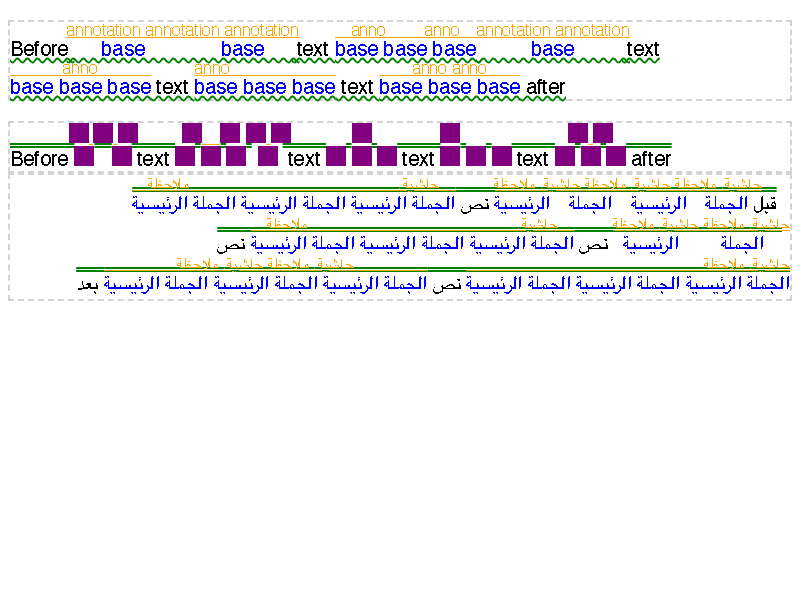
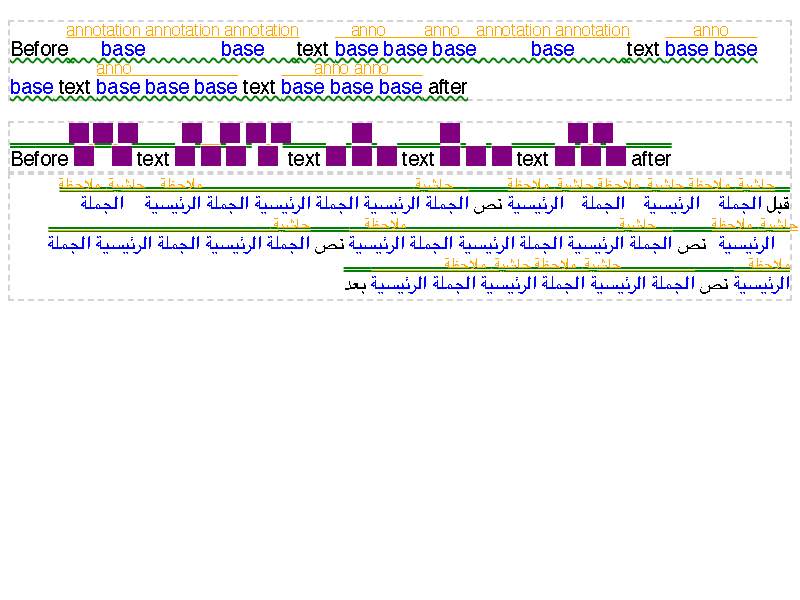
RubyLB: Make ruby columns breakable
If a ruby columns is not monolithic and its intrinsic inline size is
larger than line's available size, we try to break inside the ruby
column.  We provide RubyBreakTokenData if it succeeds.

Bug: 324111880
Auto-Submit: Kent Tamura <tkent@chromium.org>
Commit-Queue: Koji Ishii <kojii@chromium.org>
Cr-Commit-Position: refs/heads/main@{#1302421}
NOKEYCHECK=True
GitOrigin-RevId: 1786fbc1466286e500b3c1f102b4b1b86c3787eb

diff --git a/blink/web_tests/external/wpt/css/css-ruby/break-within-bases/basic.html b/blink/web_tests/external/wpt/css/css-ruby/break-within-bases/basic.html
@@ -1,0 +1,18 @@
+<!DOCTYPE html>
+<link rel="help" href="https://drafts.csswg.org/css-ruby/#break-within">
+<link rel="match" href="basic-ref.html">
+<link rel="stylesheet" href="/fonts/ahem.css">
+<style>
+body {
+  font: 50px/1 Ahem;
+}
+span {
+  text-wrap: nowrap;
+}
+p {
+  word-break: break-all;
+  inline-size: 305px;
+}
+</style>
+<p>zzz<ruby><span>mmm</span><span>mm</span><rt><span>mmmmmm</span><span>mmmm</span></ruby>zzz
+</p>

diff --git a/blink/web_tests/external/wpt/css/css-ruby/break-within-bases/basic-ref.html b/blink/web_tests/external/wpt/css/css-ruby/break-within-bases/basic-ref.html
@@ -1,0 +1,16 @@
+<!DOCTYPE html>
+<link rel="stylesheet" href="/fonts/ahem.css">
+<style>
+body {
+  font: 50px/1 Ahem;
+}
+span {
+  text-wrap: nowrap;
+}
+p {
+  word-break: break-all;
+  inline-size: 305px;
+}
+</style>
+<p>zzz<ruby><span>mmm</span><rt><span>mmmmmm</span></ruby> <ruby><span>mm</span><rt><span>mmmm</span></ruby>zzz
+</p>

diff --git a/blink/renderer/core/layout/inline/line_breaker.cc b/blink/renderer/core/layout/inline/line_breaker.cc
@@ -531,7 +531,7 @@ void LineBreaker::SetLineOpportunity(
 }
 
 void LineBreaker::OverrideAvailableWidth(LayoutUnit available_width) {
-  DCHECK(available_width);
+  DCHECK_GE(available_width, LayoutUnit());
   override_available_width_ = available_width;
   UpdateAvailableWidth();
 }
@@ -544,10 +544,12 @@ void LineBreaker::SetBreakAt(const LineBreakPoint& offset) {
 inline InlineItemResult* LineBreaker::AddItem(const InlineItem& item,
                                               unsigned end_offset,
                                               LineInfo* line_info) {
-  DCHECK_EQ(&item, &items_data_->items[current_.item_index]);
-  DCHECK_GE(current_.text_offset, item.StartOffset());
-  DCHECK_GE(end_offset, current_.text_offset);
-  DCHECK_LE(end_offset, item.EndOffset());
+  if (item.Type() != InlineItem::kOpenRubyColumn) {
+    DCHECK_EQ(&item, &items_data_->items[current_.item_index]);
+    DCHECK_GE(current_.text_offset, item.StartOffset());
+    DCHECK_GE(end_offset, current_.text_offset);
+    DCHECK_LE(end_offset, item.EndOffset());
+  }
   if (UNLIKELY(item.IsTextCombine()))
     line_info->SetHaveTextCombineOrRubyItem();
   InlineItemResults* item_results = line_info->MutableResults();
@@ -1026,6 +1028,7 @@ void LineBreaker::BreakLine(LineInfo* line_info) {
         AddItem(item, line_info);
         MoveToNextOf(item);
       }
+      HandleOverflowIfNeeded(line_info);
       continue;
     }
     if (item.Type() == InlineItem::kOutOfFlowPositioned) {
@@ -3241,7 +3244,9 @@ bool LineBreaker::HandleRuby(const RubyBreakTokenData* ruby_token,
       base_start, base_end_index, LineBreakerMode::kMaxContent, kIndefiniteSize,
       trailing_whitespace_);
 
+  const wtf_size_t number_of_annotations = annotation_data.size();
   HeapVector<LineInfo, 1> annotation_line_list;
+  annotation_line_list.reserve(number_of_annotations);
   for (const auto& data : annotation_data) {
     annotation_line_list.push_back(CreateSubLineInfo(
         data.start, data.end_item_index, LineBreakerMode::kMaxContent,
@@ -3249,8 +3254,9 @@ bool LineBreaker::HandleRuby(const RubyBreakTokenData* ruby_token,
   }
 
   LayoutUnit ruby_size = MaxLineWidth(base_line_info, annotation_line_list);
-
-  {
+  LayoutUnit available = RemainingAvailableWidth().ClampNegativeToZero();
+  if (ruby_size <= available ||
+      IsMonolithicRuby(base_line_info, annotation_line_list)) {
     // Recreate lines because lines created with LineBreakerMode::kMaxContent
     // are not usable in InlineLayoutAlgorithm.
     base_line_info =
@@ -3270,8 +3276,92 @@ bool LineBreaker::HandleRuby(const RubyBreakTokenData* ruby_token,
     current_ = annotation_line_list[0].End();
     return true;
   }
-  // TODO(crbug.com/324111880): Break the ruby if ruby_size is longer than
-  // RemainingAvailableWidth().
+
+  // Try to break the ruby column.
+
+  base_line_info = CreateSubLineInfo(
+      base_start, base_end_index, LineBreakerMode::kContent,
+      available * base_line_info.Width() / ruby_size, trailing_whitespace_);
+
+  bool annotation_is_broken = false;
+  for (wtf_size_t i = 0; i < number_of_annotations; ++i) {
+    LineInfo& line = annotation_line_list[i];
+    // If all items in the base line is consumed, we should consume all items
+    // in annotation lines too.  The point just after the base line might be
+    // non-breakable and we need to continue handling the following InlineItems
+    // in such case. However it's very difficult if annotation items remain.
+    LayoutUnit limit = base_line_info.GetBreakToken()
+                           ? (available * line.Width() / ruby_size)
+                           : kIndefiniteSize;
+    line = CreateSubLineInfo(
+        annotation_data[i].start, annotation_data[i].end_item_index,
+        LineBreakerMode::kContent, limit, WhitespaceState::kLeading);
+    annotation_is_broken = annotation_is_broken || line.GetBreakToken();
+  }
+
+  ruby_size = MaxLineWidth(base_line_info, annotation_line_list);
+  InlineItemResult* result =
+      AddRubyColumnResult(item, base_line_info, annotation_line_list,
+                          annotation_data, ruby_size, ruby_token, *line_info);
+  position_ += ruby_size;
+
+  // If the base line and annotation lines have no BreakToken, we should add
+  // them even though they are wider than the available width.  The
+  // InlineItemResult for the ruby column may be rewound.
+  if (!base_line_info.GetBreakToken() && !annotation_is_broken) {
+    current_ = annotation_line_list[0].End();
+    return true;
+  }
+  DCHECK(base_line_info.GetBreakToken());
+  current_ = base_line_info.End();
+
+  // We have a broken line, and need to provide a RubyBreakTokenData.
+  Vector<AnnotationBreakTokenData, 1> breaks;
+  breaks.reserve(number_of_annotations);
+  for (wtf_size_t i = 0; i < number_of_annotations; ++i) {
+    breaks.push_back(AnnotationBreakTokenData{
+        annotation_line_list[i].End(), annotation_data[i].start_item_index,
+        annotation_data[i].end_item_index});
+  }
+  result->ruby_column->ruby_break_token =
+      MakeGarbageCollected<RubyBreakTokenData>(open_column_item_index,
+                                               base_end_index, breaks);
+
+  // We can't handle following InlineItems if we break inside a ruby column.
+  if (ruby_size <= available) {
+    state_ = LineBreakState::kDone;
+  }
+  return true;
+}
+
+bool LineBreaker::IsMonolithicRuby(
+    const LineInfo& base_line,
+    const HeapVector<LineInfo, 1>& annotation_line_list) const {
+  // Not breakable if it's an inner ruby column of nested rubies.
+  if (end_item_index_ != Items().size()) {
+    return true;
+  }
+
+  // Not breakable if the number of the base letters is <= 4 and the number of
+  // the annotation letters is <= 8.
+  //
+  // TODO(layout-dev): Should we count glyphs?  Should we take into account of
+  // East Asian Width?
+  constexpr wtf_size_t kBaseLetterLimit = 4;
+  constexpr wtf_size_t kAnnotationLetterLimit = 8;
+  if (base_line.EndTextOffset() - base_line.StartOffset() <= kBaseLetterLimit) {
+    auto iter =
+        std::find_if(annotation_line_list.begin(), annotation_line_list.end(),
+                     [](const LineInfo& line) {
+                       return line.EndTextOffset() - line.StartOffset() >
+                              kAnnotationLetterLimit;
+                     });
+    if (iter == annotation_line_list.end()) {
+      return true;
+    }
+  }
+
+  return false;
 }
 
 LineInfo LineBreaker::CreateSubLineInfo(

diff --git a/blink/renderer/core/layout/inline/line_breaker_test.cc b/blink/renderer/core/layout/inline/line_breaker_test.cc
@@ -1104,7 +1104,7 @@ TEST_F(LineBreakerTest, BreakAtTrailingSpacesAfterAtomicInline) {
 // crbug.com/338437458
 TEST_F(LineBreakerTest, WideContentInRuby) {
   InlineNode node = CreateInlineNode(R"HTML(
-      <div id=container>
+      <div id=container style="text-wrap:nowrap">
       <ruby><div style="width:109162843px; margin-right:1000px"></div><div>
       a</div><rt>a</ruby>
       </div>)HTML");
@@ -1156,8 +1156,8 @@ TEST_F(LineBreakerTest, SetInputRange) {
 TEST_F(LineBreakerTest, CreateSubLineInfoAvailableWidth) {
   LoadAhem();
   InlineNode node = CreateInlineNode(R"HTML(
-      <div id=container style="font: 40px Ahem"><ruby><b>
-      foo bar foo bar foo bar foo bar foo bar
+      <div id=container style="font: 40px Ahem"><ruby style="text-wrap:nowrap">
+      <b>foo bar foo bar foo bar foo bar foo bar
       foo bar foo bar foo bar foo bar foo bar
       <button style="float:left;">f</button></b>
       <rt>annotation</ruby></div>)HTML");

diff --git a/blink/renderer/core/layout/inline/inline_break_token.h b/blink/renderer/core/layout/inline/inline_break_token.h
@@ -33,6 +33,12 @@ struct RubyBreakTokenData : GarbageCollected<RubyBreakTokenData> {
   const wtf_size_t ruby_base_end_item_index;
   const Vector<AnnotationBreakTokenData, 1> annotation_data;
 
+  RubyBreakTokenData(wtf_size_t open_column_index,
+                     wtf_size_t base_end_index,
+                     const Vector<AnnotationBreakTokenData, 1>& annotations)
+      : open_column_item_index(open_column_index),
+        ruby_base_end_item_index(base_end_index),
+        annotation_data(annotations) {}
   void Trace(Visitor*) const {}
 };
 

diff --git a/blink/renderer/core/layout/inline/line_breaker.h b/blink/renderer/core/layout/inline/line_breaker.h
@@ -227,6 +227,9 @@ class CORE_EXPORT LineBreaker {
   // HandleRuby() twice.
   NOINLINE bool HandleRuby(const RubyBreakTokenData* ruby_token,
                            LineInfo* line_info);
+  bool IsMonolithicRuby(
+      const LineInfo& base_line,
+      const HeapVector<LineInfo, 1>& annotation_line_list) const;
   // `mode`: Must be kMaxContent or kContent.
   // `limit`: Must be non-negative or kIndefiniteSize, which means no auto-wrap.
   LineInfo CreateSubLineInfo(InlineItemTextIndex start,
